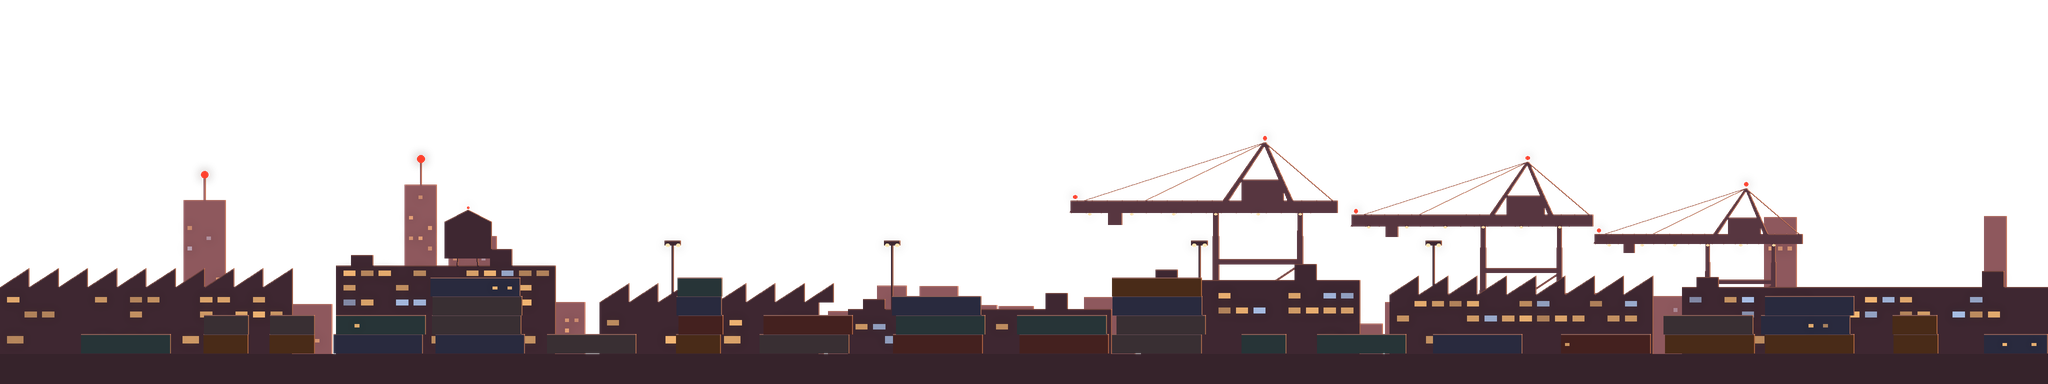
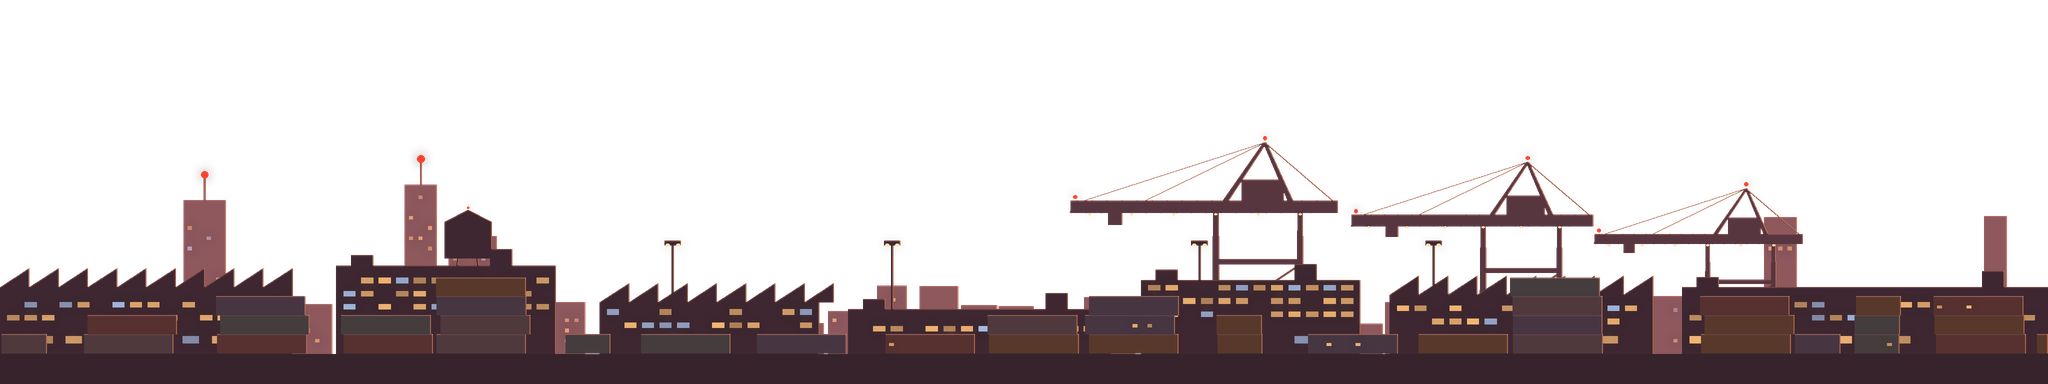
Lone Wolf Arena: checkpoint of the menus review fixes in progress
Claude-Session: https://claude.ai/code/session_01CaMwBTSPraXc33DxMPypDU

Changed region(s): [[0.0, 0.6875, 1.0, 0.9375], [0.3125, 0.7188, 0.375, 0.7812]]

diff --git a/LoneWolfArena/tools/media/make_keyart.py b/LoneWolfArena/tools/media/make_keyart.py
@@ -425,8 +425,8 @@ def skyline(w=2048, h=384, seed=5) -> Image.Image:
         else:
             d.rectangle([X(x0 + 2.0), Y(hh + 1.4), X(x0 + 5.0), Y(hh)], fill=wc)
             d.rectangle([X(x1 - 9.0), Y(hh + 2.2), X(x1 - 6.0), Y(hh)], fill=wc)
-        windows(x0 + 1.0, x1 - 1.5, hh * 0.55, hh - 1.2, 0.12, 0.5, (1.6, 0.7), (2.4, 2.0))
-        windows(x0 + 1.0, x1 - 1.5, 1.4, 2.4, 0.12, 0.25, (2.2, 0.9), (4.0, 2.0))
+        windows(x0 + 1.0, x1 - 1.5, hh * 0.5, hh - 1.2, 0.12, 0.62, (1.6, 0.7), (2.4, 1.8))
+        windows(x0 + 1.0, x1 - 1.5, 1.4, 2.4, 0.12, 0.3, (2.2, 0.9), (4.0, 2.0))
     tx = -62.0
     for lx in (tx - 2.2, tx + 2.2):
         d.line([(X(lx), Y(0)), (X(lx * 0.0 + tx + (lx - tx) * 0.6), Y(13.0))], fill=wc, width=lw)
@@ -442,17 +442,17 @@ def skyline(w=2048, h=384, seed=5) -> Image.Image:
 
     # container stacks near the ground, dark paint colours
     d = layer()
-    paints = [(52, 22, 22), (22, 32, 56), (20, 44, 48), (58, 34, 14), (40, 38, 44)]
+    paints = [(46, 24, 26), (26, 30, 48), (24, 38, 44), (50, 32, 20), (38, 34, 42)]
     x = -126.0
     while x < 154.0:
         ln = 12.2 if rng.random() < 0.45 else 6.1
         n = int(rng.choice([0, 1, 1, 2, 2, 3, 4]))
         for k in range(n):
             pc = paints[int(rng.integers(len(paints)))]
-            c = col(pc, 0.1)
+            c = col(pc, 0.24)
             off = rng.uniform(-0.4, 0.4)
             d.rectangle([X(x + off), Y((k + 1) * 2.59), X(x + off + ln), Y(k * 2.59)], fill=c)
-            d.line([(X(x + off), Y((k + 1) * 2.59)), (X(x + off + ln), Y((k + 1) * 2.59))], fill=col((90, 70, 80), 0.1), width=2)
+            d.line([(X(x + off), Y((k + 1) * 2.59)), (X(x + off + ln), Y((k + 1) * 2.59))], fill=col((80, 60, 72), 0.24), width=2)
             if rng.random() < 0.3:
                 windows(x + off + 0.5, x + off + ln - 0.5, k * 2.59 + 1.0, k * 2.59 + 1.6, 0.1, 0.06, (0.6, 0.35), (2.0, 1.0))
         x += ln + rng.uniform(0.4, 6.0)
